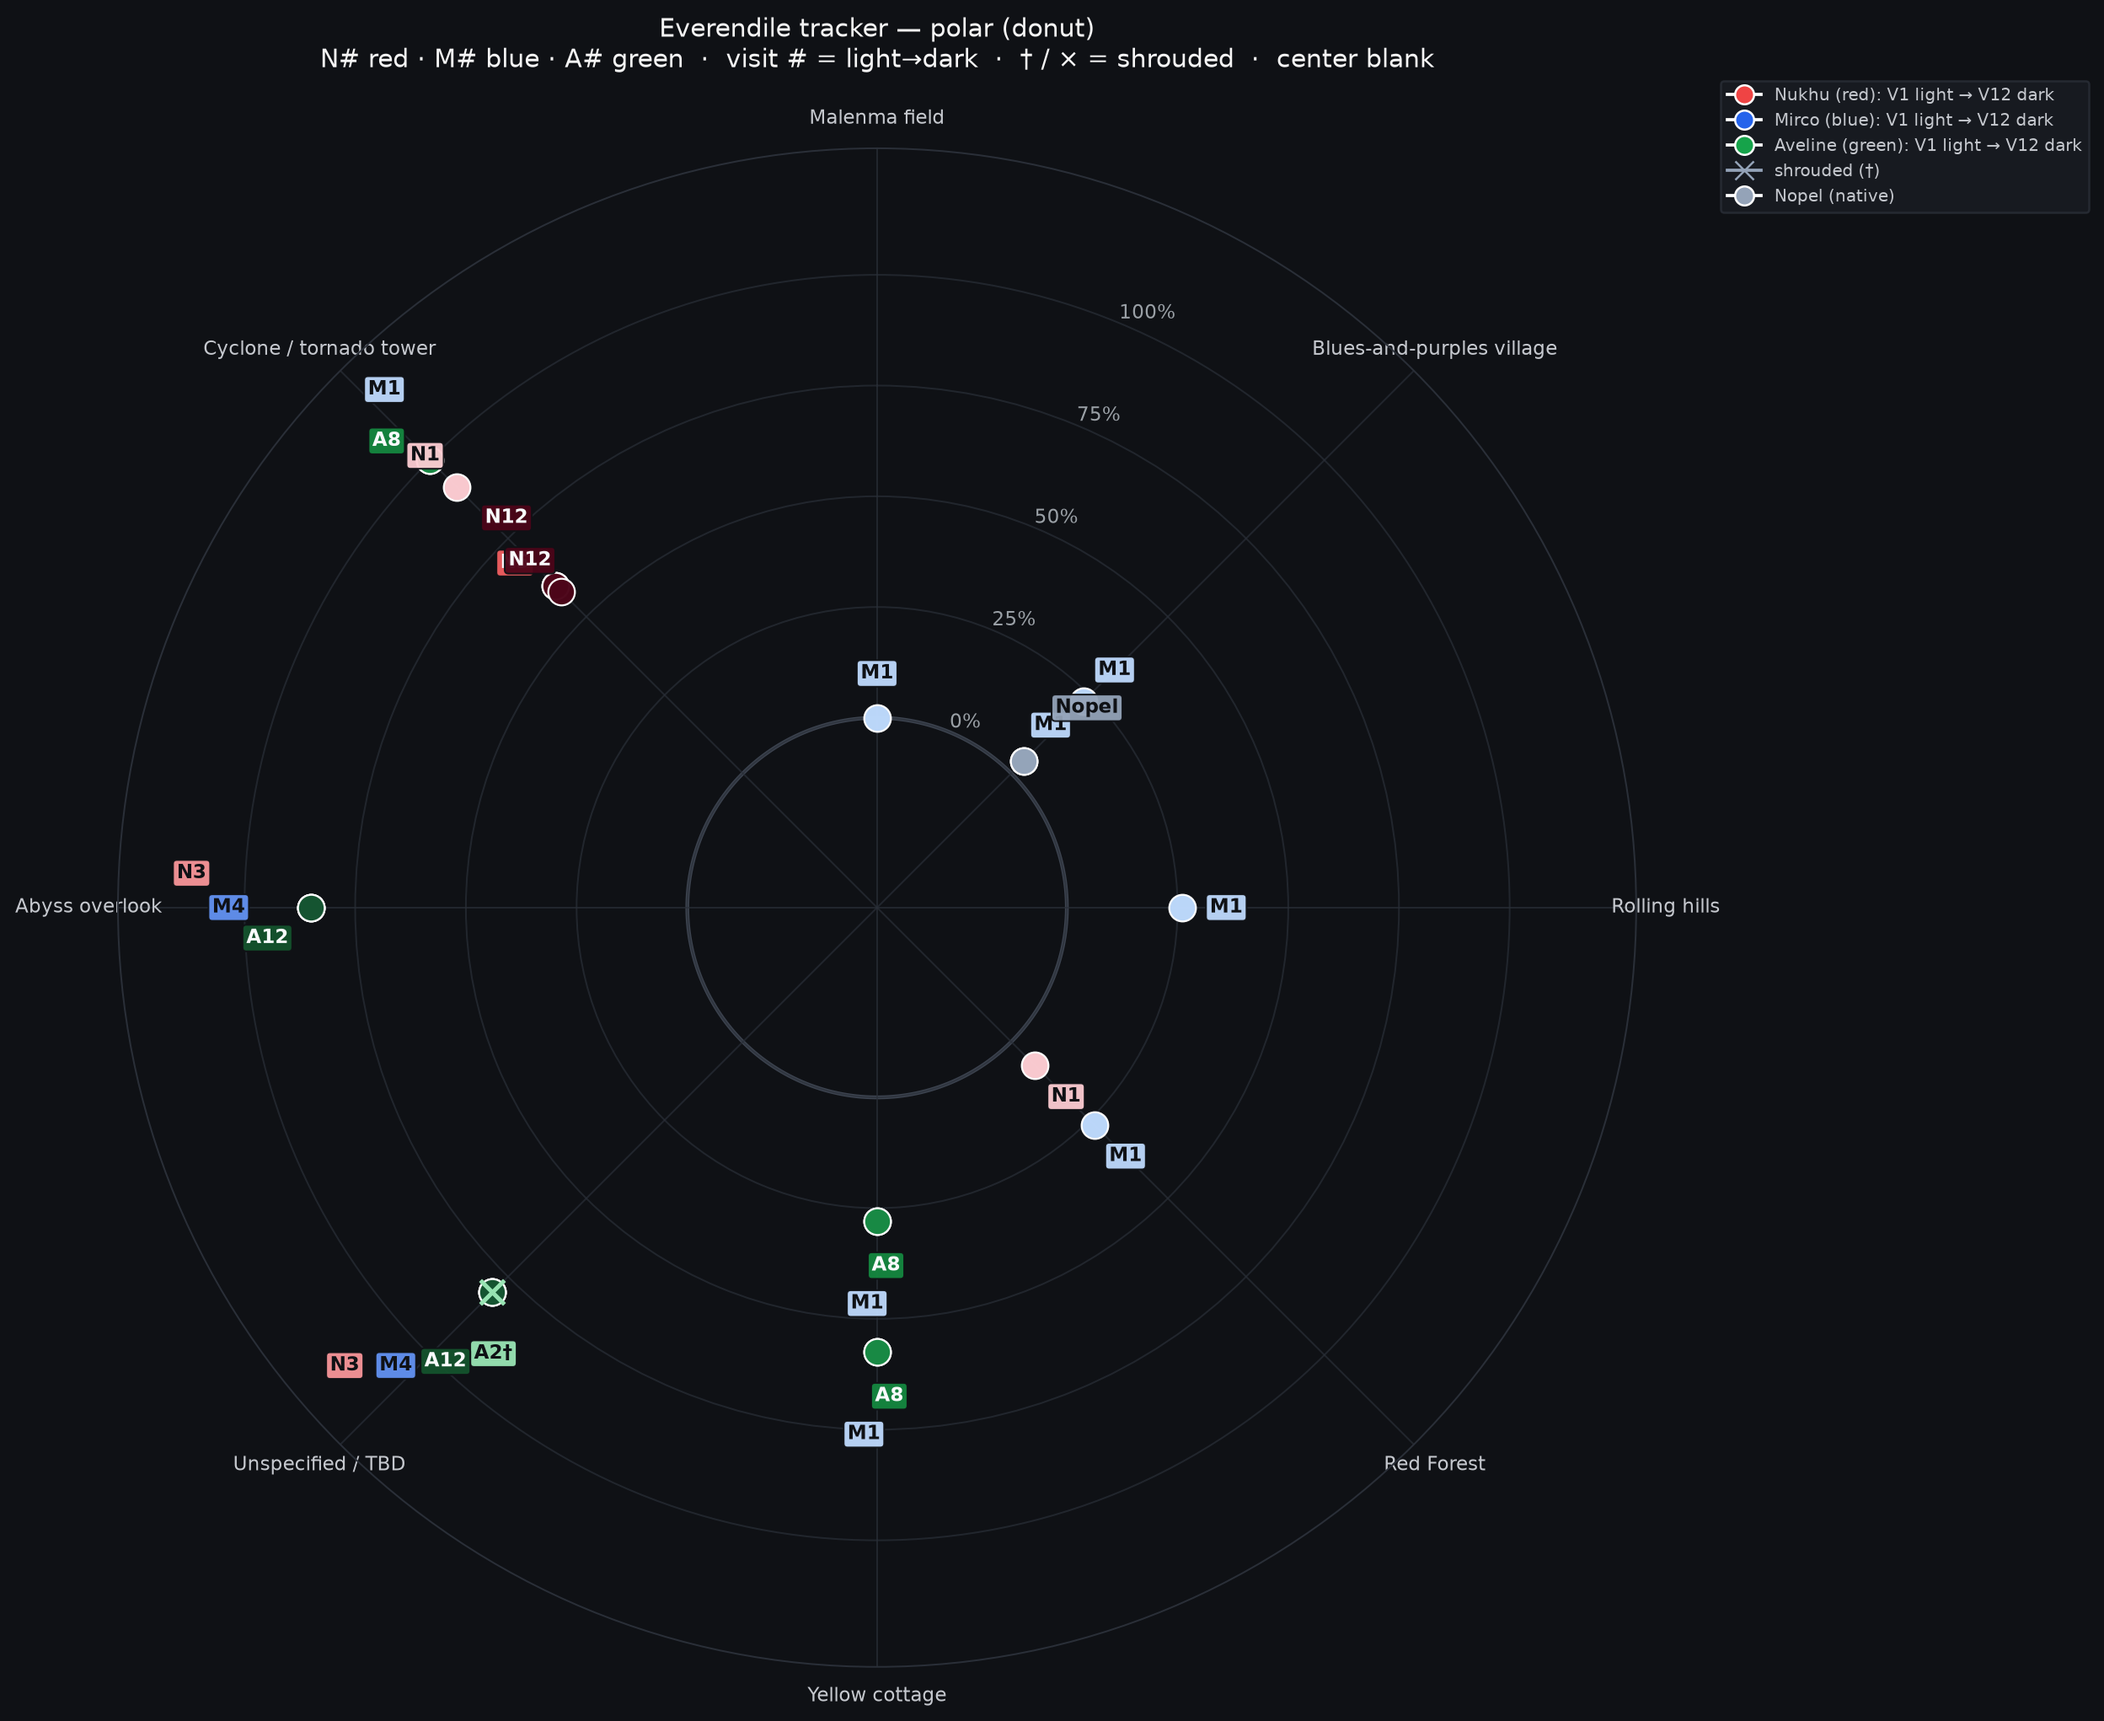
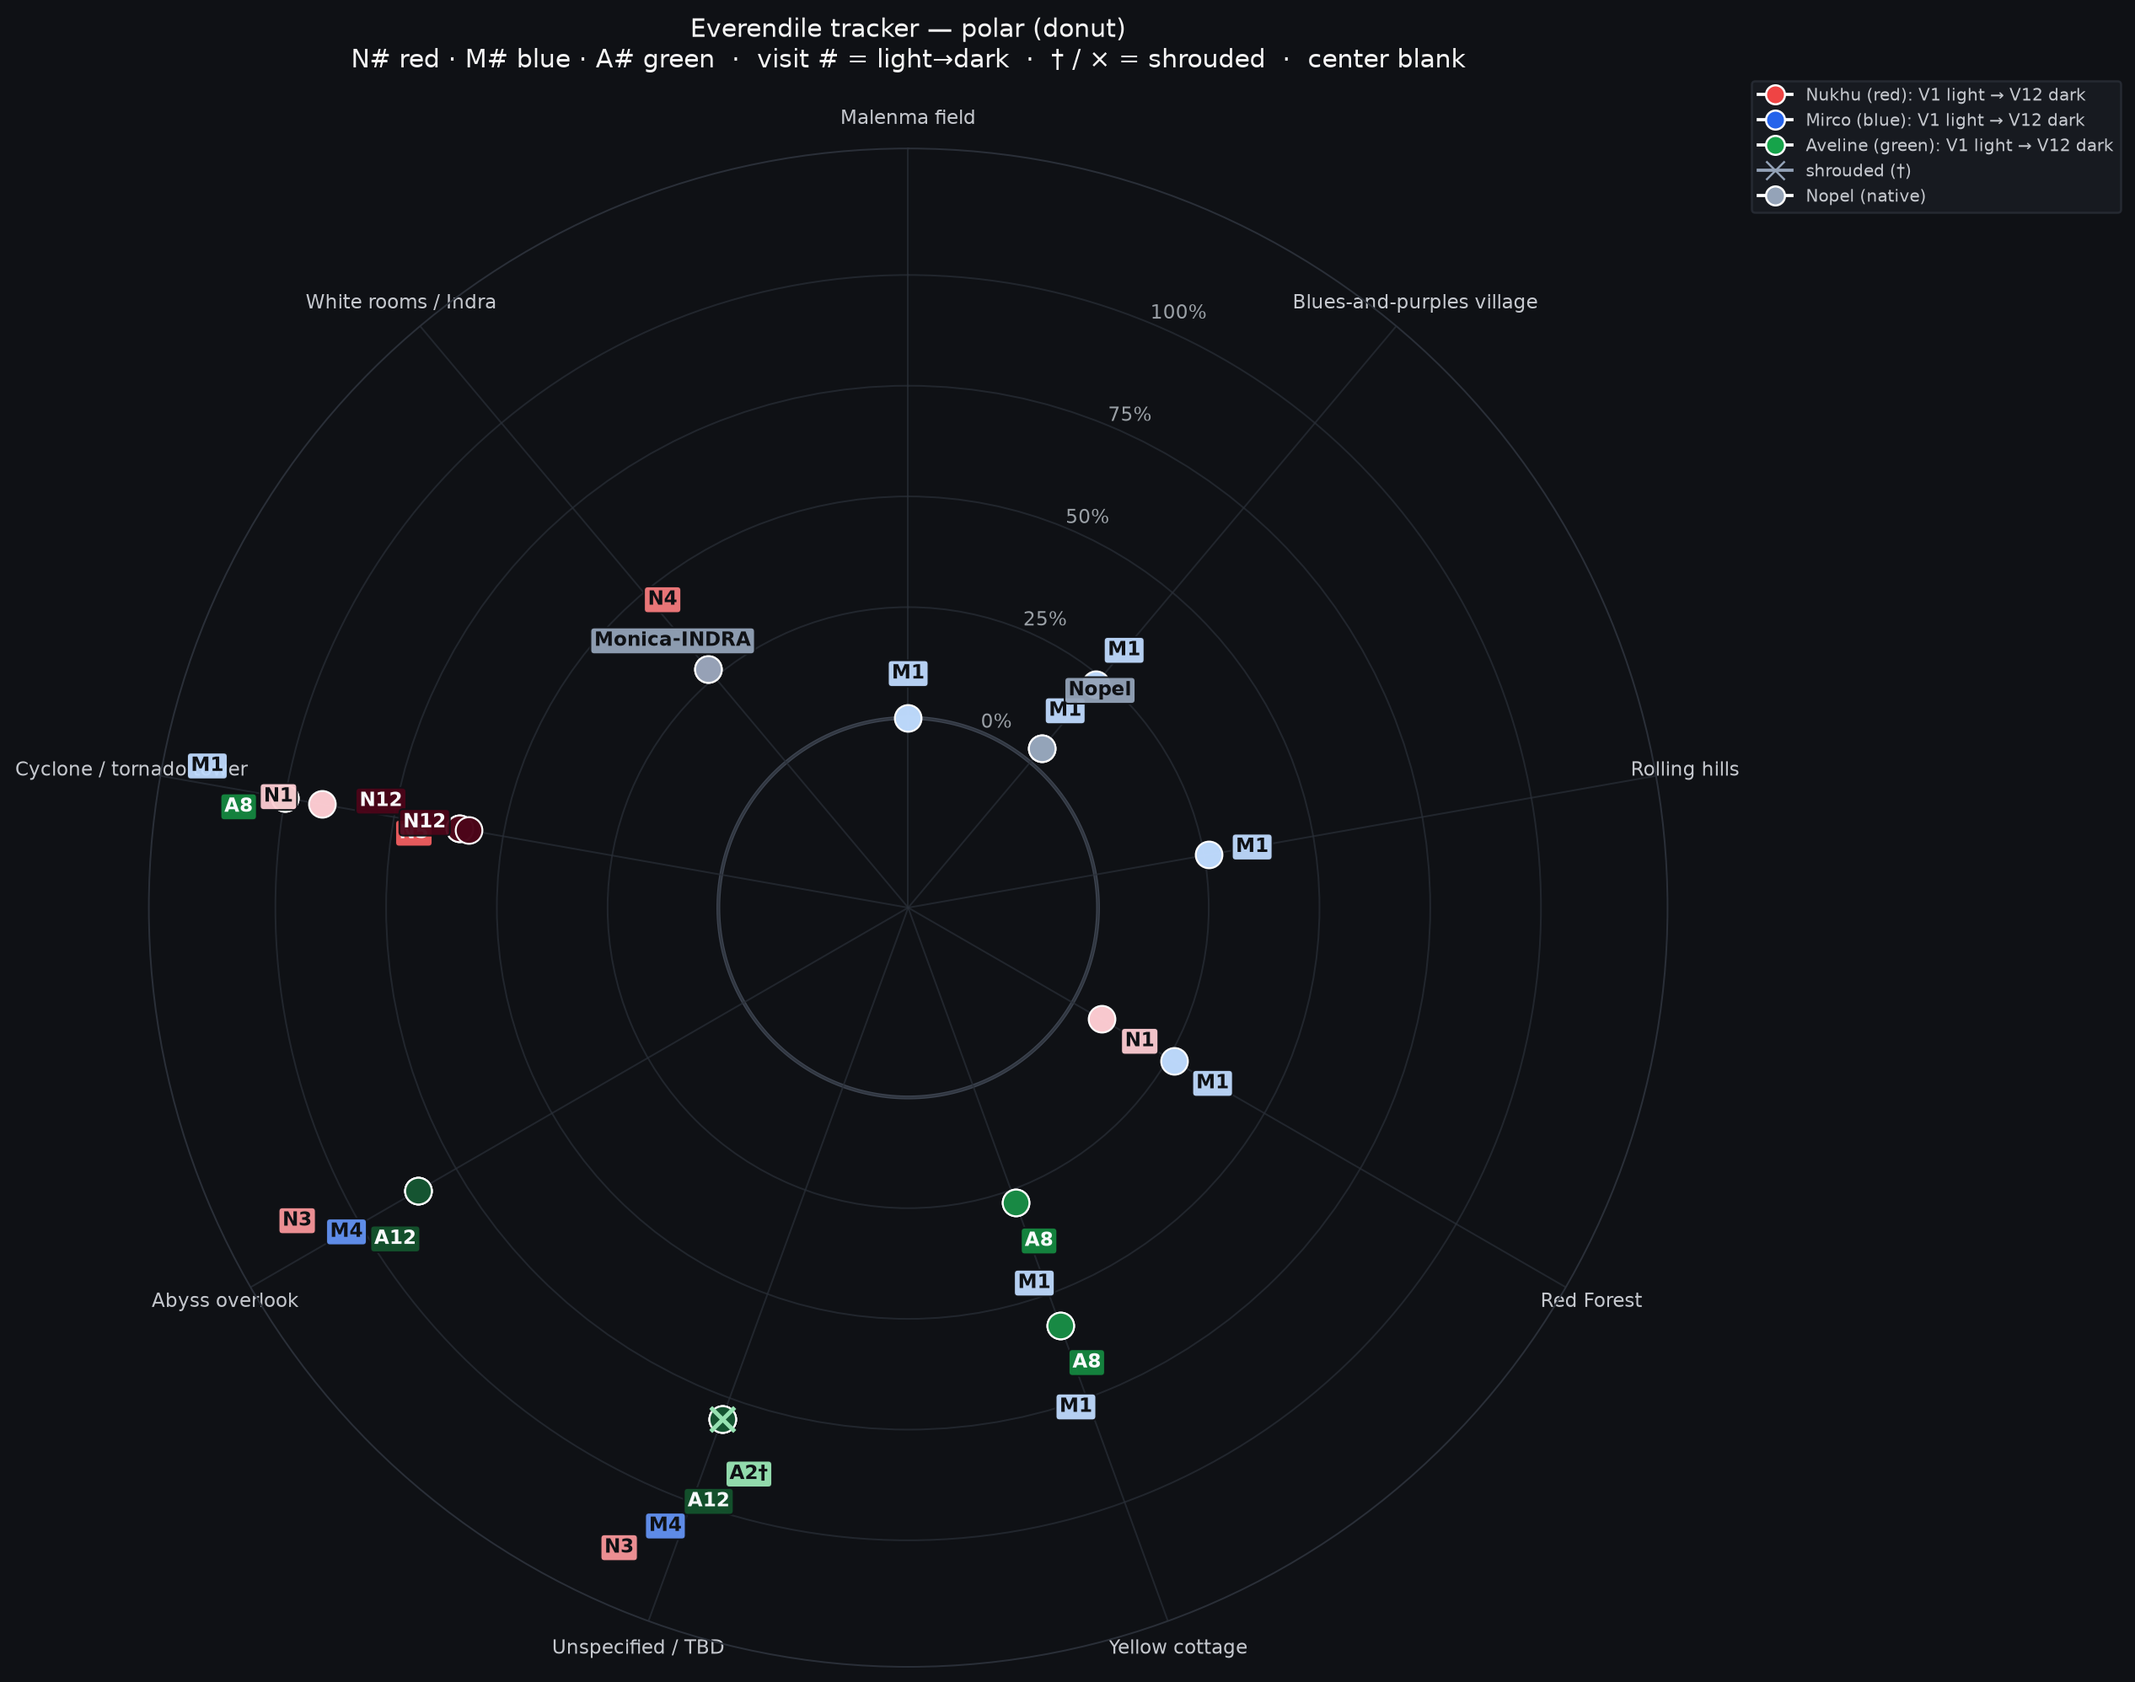
Add Nukhu-V04 + Monica Indra white-room talk at 27.5%
Q2 D5 on the 200-day calendar.

diff --git a/index.html b/index.html
@@ -753,6 +753,35 @@ const DATA = {
           "with": []
         }
       ]
+    },
+    "Nukhu-V04": {
+      "instance_id": "Nukhu-V04",
+      "family": "Nukhu",
+      "visit": 4,
+      "code": "N4",
+      "beats": [
+        {
+          "beat_id": "B048",
+          "t": 27.5,
+          "label": "White room assassination talk (27.5%)",
+          "place_id": "L_WHITE",
+          "place": "White rooms / Indra",
+          "shrouded": false,
+          "exception": "",
+          "notes": "Discusses assassination with Monica in Indra castle white room \u2014 Q2 D5 / 27.5%",
+          "code": "N4",
+          "with": [
+            {
+              "instance_id": "Monica-INDRA",
+              "code": "Monica",
+              "family": "Monica",
+              "visit": null,
+              "shrouded": false,
+              "notes": "Discusses assassination with Nukhu-V04 in Indra castle white room \u2014 Q2 D5 / 27.5%"
+            }
+          ]
+        }
+      ]
     }
   },
   "catalog": [
@@ -782,7 +811,7 @@ const DATA = {
       "family": "Nukhu",
       "visit": 4,
       "code": "N4",
-      "has_data": false
+      "has_data": true
     },
     {
       "instance_id": "Nukhu-V05",
@@ -1044,6 +1073,11 @@ const DATA = {
       "beat_id": "B040",
       "t": 26.5,
       "label": "Red Forest / pink elephants (26.5%)"
+    },
+    {
+      "beat_id": "B048",
+      "t": 27.5,
+      "label": "White room assassination talk (27.5%)"
     },
     {
       "beat_id": "B050",
